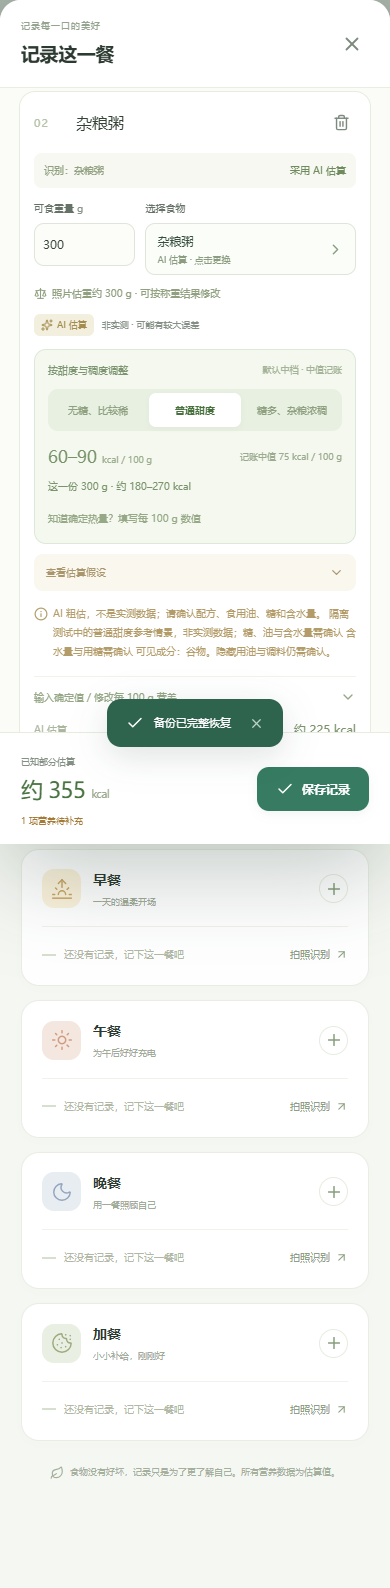
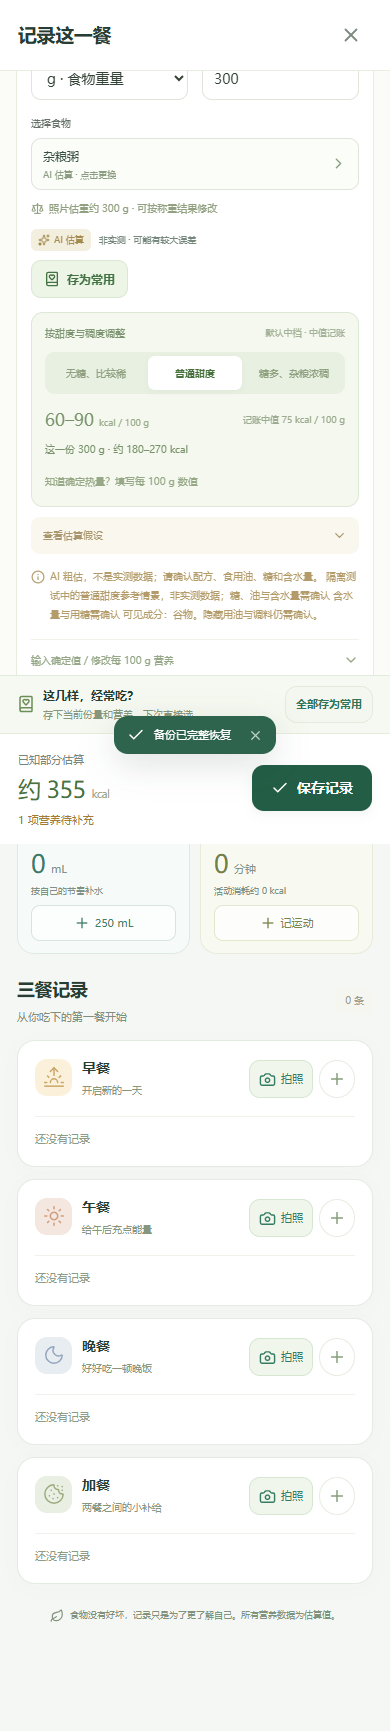
chore(release): 准备0.11.18测试版及验证说明

diff --git a/README.md b/README.md
@@ -6,6 +6,8 @@
 
 ## 当前版本与历史更新
 
+**0.11.18-test（versionCode 41）：图片聊天与精简设置页。** AI助手支持选图/拍照配描述发送，携带近期上下文继续饮食问答；问答保留草稿，图片不进入记录或备份。个人估算库改为独立搜索管理弹窗、每批10项，避免设置页过长。更新未完成时明确提示部分来源检查失败，区分GitHub匿名接口限流，Gitee保持优先；0.11.13需先手动覆盖安装一次获取排序修复。[图片聊天](docs/meal-assistant.md) · [估算库管理](docs/web-settings.md)。
+
 **0.11.15-test（versionCode 38）：常用食物详情与模型修改交互。** 常用食物卡片可直接打开份量、营养和来源详情，再加入一餐；查看不改写保存快照。模型「修改」直接打开独立弹窗并回填所选组，保存/取消固定在底部，教程与详情支持逐层返回。同时修复Gitee默认升序列表导致漏掉国内新版的问题，显式读取最新10版并按实际发布时间排序。
 
 **0.11.13-test（versionCode 36）：Gitee 国内更新源优先，GitHub 备用。** 设置页可分别配置两个公开仓库，连接失败或国内源没有更高版本时检查备用源；下载连接失败仅切换到版本、大小与哈希一致的备用APK，继续校验包名及当前签名。首次需通过旧版GitHub入口更新或手动覆盖安装本版，之后启用Gitee优先。[使用与发布教程](docs/app-updates.md)。
